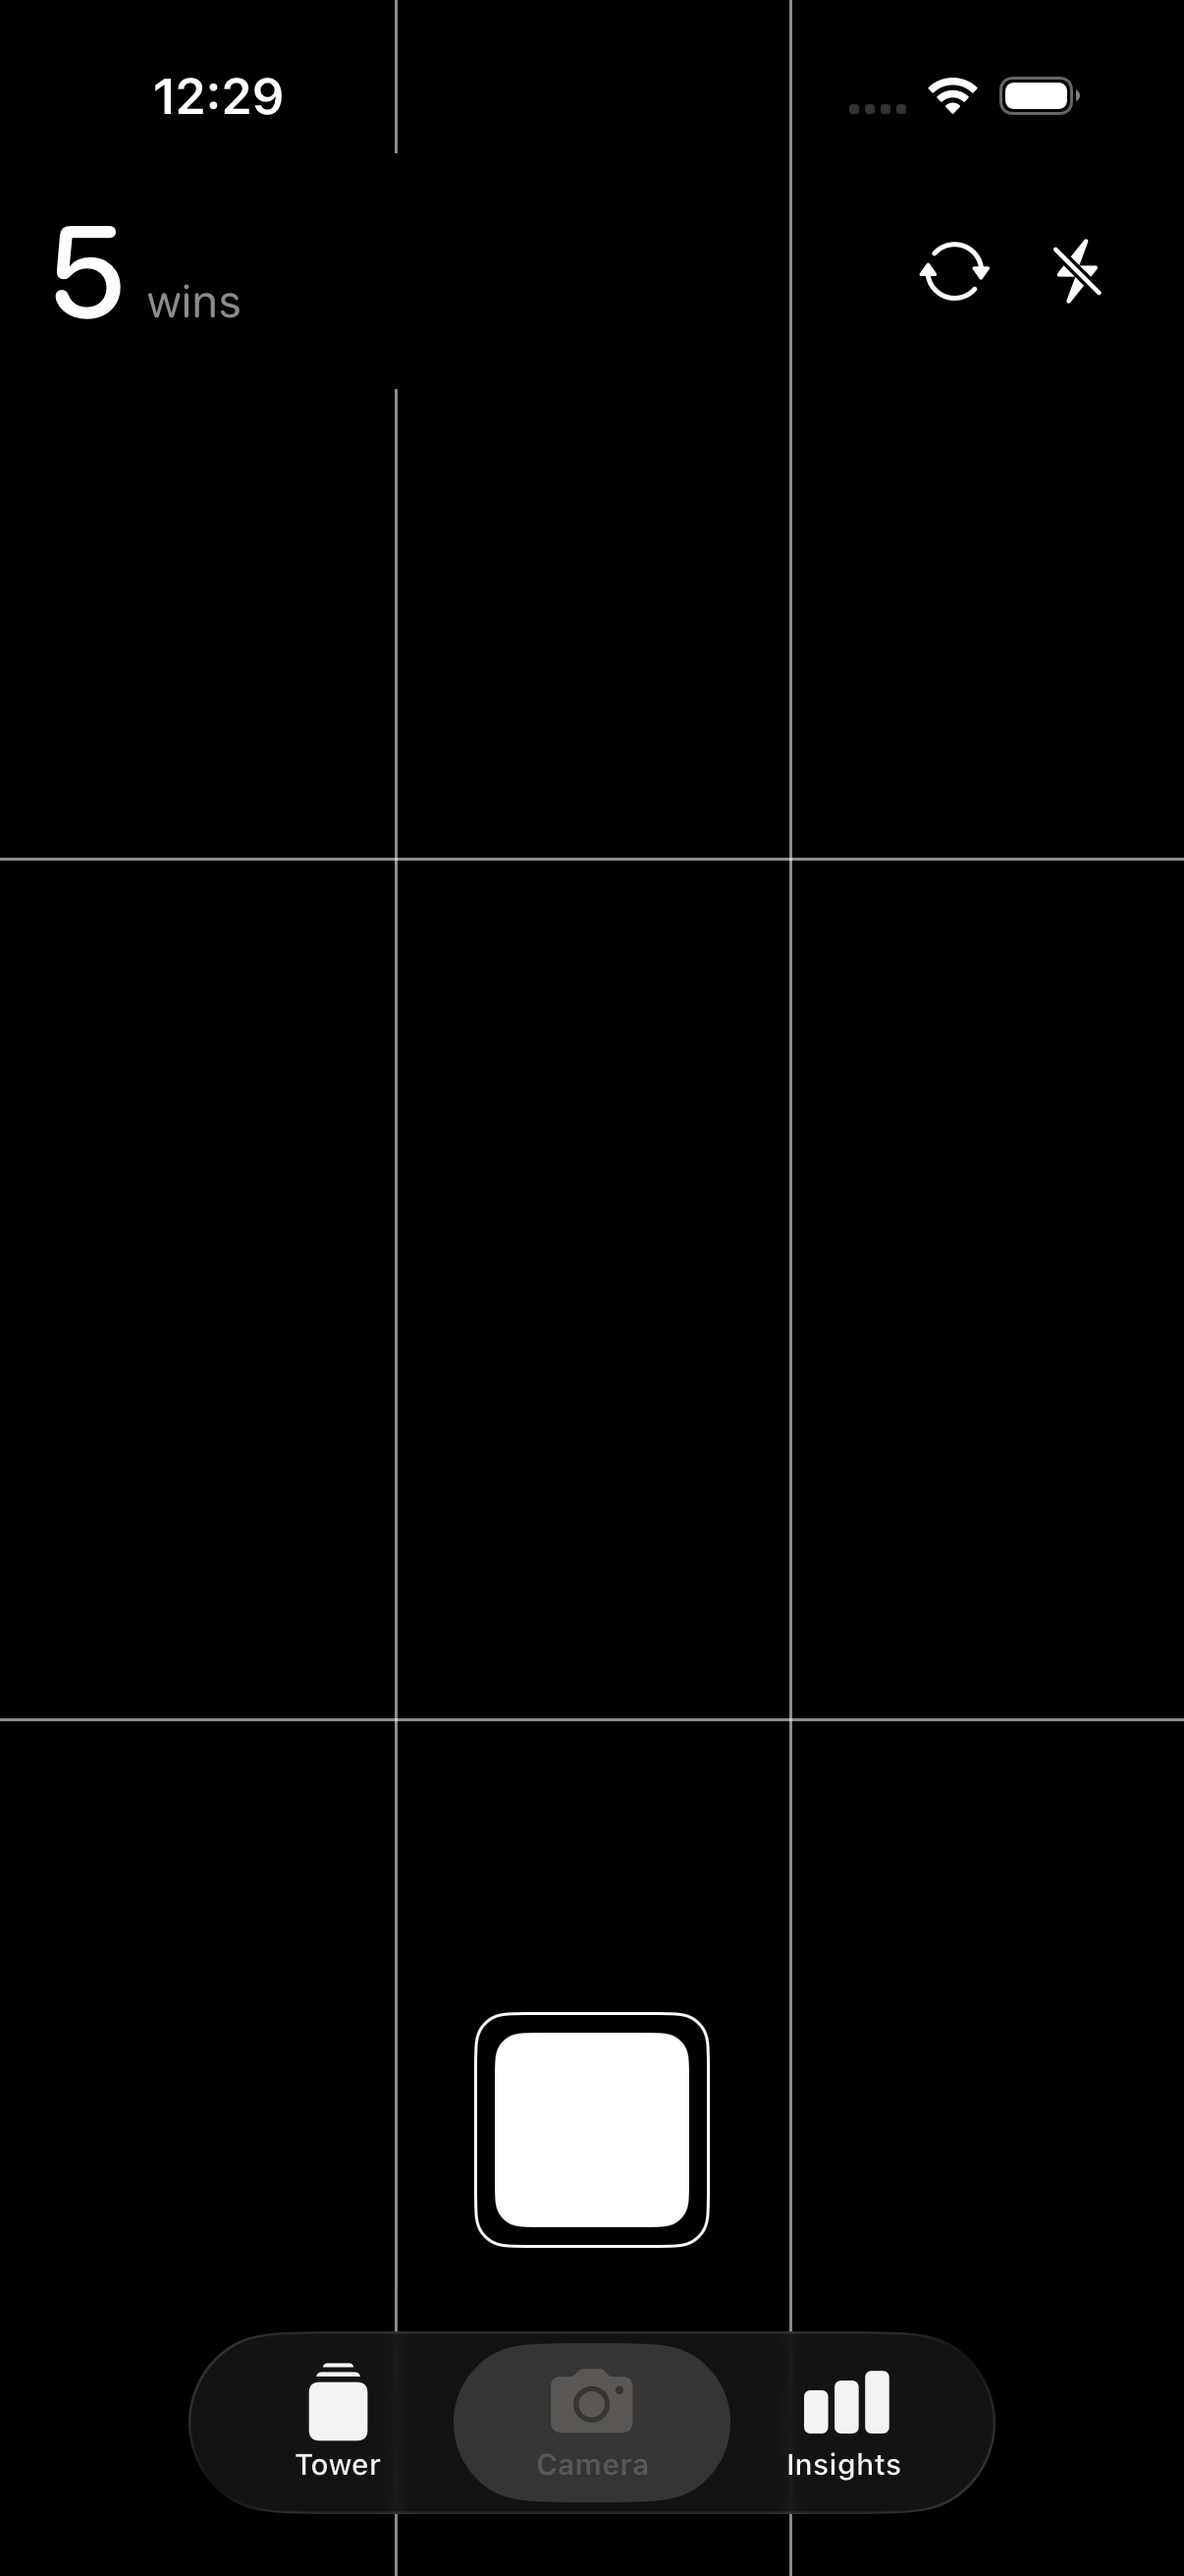
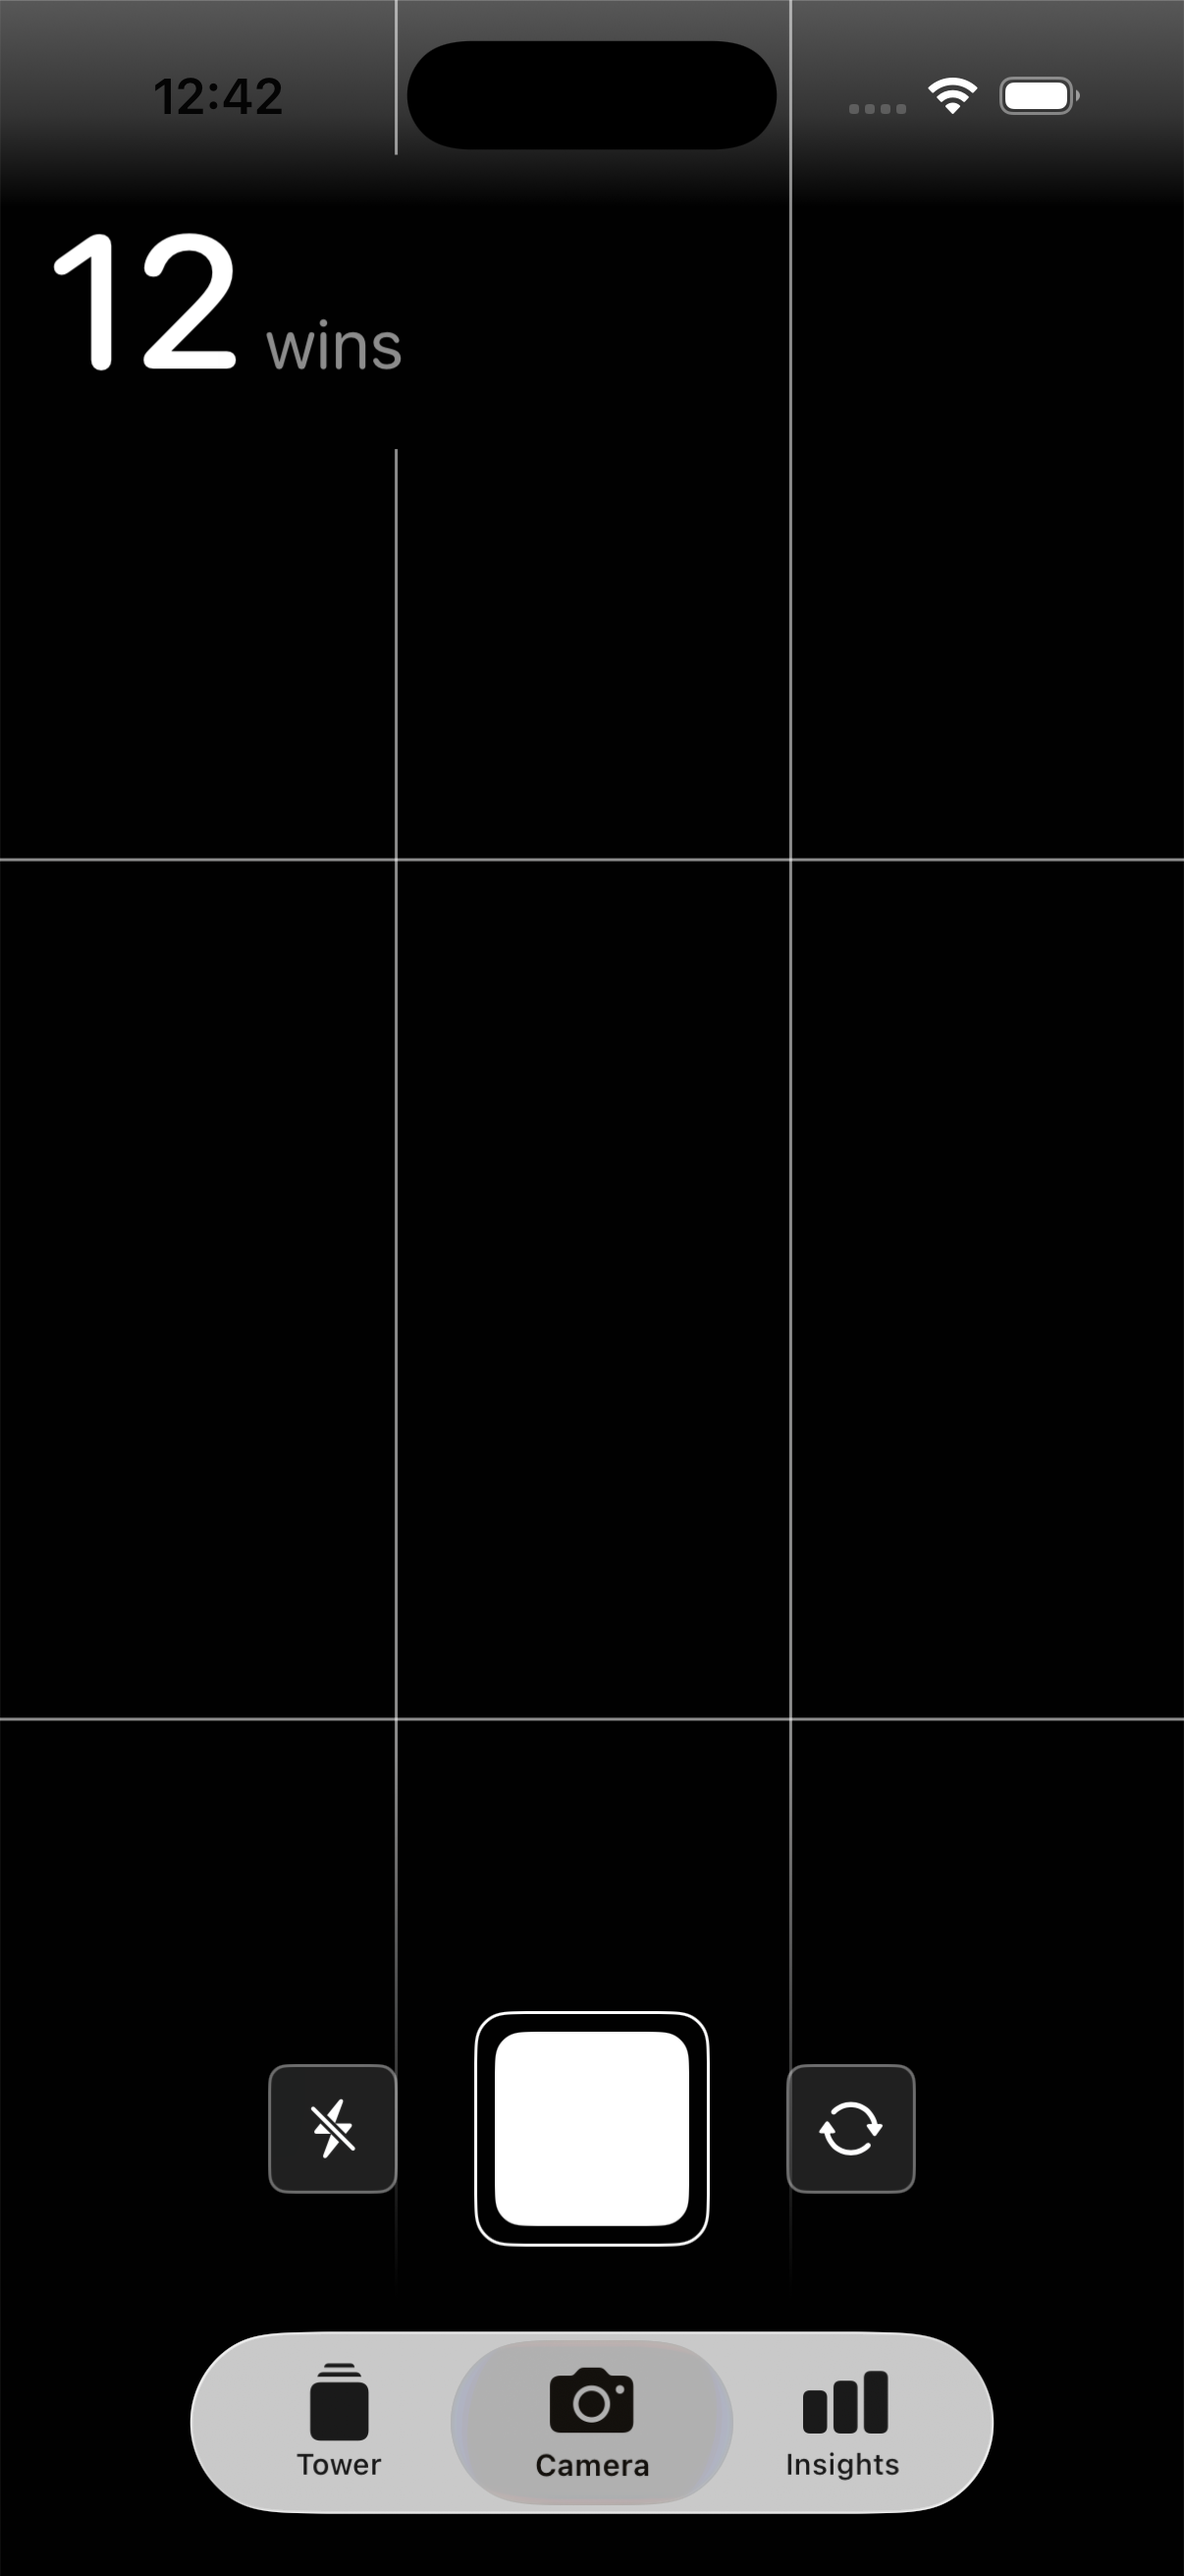
Make the drag give you what it showed, and put the camera controls in reach
**The drag hiccup was real, and both directions had the same cause.**
`released()` recomputed the size from raw translation plus a momentum
projection — WITHOUT the hysteresis the ghost had been tracking with. So
the two could disagree:

  - Drag up to Deep and drift back a little: hysteresis holds the ghost
    on Deep at `up >= step - back`, but the release demanded
    `up >= step`. Showed large, dropped Regular.
  - Ghost on Regular, a small upward flick at release: projection made
    `up > lateral` and returned Deep. Showed medium, dropped large.

Momentum projection (apple-design.md §6) belongs on a control whose
position is continuous and whose release point is arbitrary. This one has
already SNAPPED — the size is decided, drawn, and confirmed by a haptic
while the finger is still down. Overriding what somebody watched
themselves choose is worse than predicting where they were heading. What
you let go of is now what you saw.

**The dark camera icon was mine.** `preferredColorScheme(.dark)` on the
camera tab is window-scoped, so it took the tab bar dark and the selected
Camera item became a dark glyph on a dark pill. The tab bar is the one
piece of chrome on screen everywhere; the status bar is four glyphs.
Chrome that is always visible wins, so the window stays light throughout
and the camera reads its status bar back with a pale scrim of its own —
over a real image that lands as the top of the frame being slightly
brighter rather than as a panel.
[…]

diff --git a/Strata/Views/CameraView.swift b/Strata/Views/CameraView.swift
@@ -48,6 +48,8 @@ struct CameraView: View {
         /// a fourth grey nobody chose.
         static let colour = Color.white.opacity(0.55)
         static let width: CGFloat = 1
+        /// How much of the frame the bottom fade occupies.
+        static let fadeHeight: CGFloat = 0.20
     }
 
     /// The header the grid is built around.
@@ -61,7 +63,7 @@ struct CameraView: View {
         /// Matches the tower's `.padding(.top, 4)` exactly, so the number does
         /// not move between the two screens.
         static let topPadding: CGFloat = 4
-        static let height: CGFloat = 52
+        static let height: CGFloat = 72
         /// Air between the header and the cut ends of the line.
         static let breathing: CGFloat = 14
     }
@@ -69,6 +71,9 @@ struct CameraView: View {
     private let cornerRadius: CGFloat = 20
     /// Distance from the right edge to the centre of the control column.
     private let controlInset: CGFloat = 40
+    /// The two flanking controls. Smaller than the shutter, because they are
+    /// settings and it is the action.
+    private let controlBlock: CGFloat = 44
     private let shutterOuter: CGFloat = 80
     private let shutterInner: CGFloat = 66
     /// Where the design puts the shutter's centre: 131pt up from the bottom of
@@ -112,6 +117,9 @@ struct CameraView: View {
                 .allowsHitTesting(false)
 
                 controls(w: w, h: h, bottomInset: geo.safeAreaInsets.bottom)
+
+                statusScrim(topInset: geo.safeAreaInsets.top)
+                    .allowsHitTesting(false)
 
                 header()
 
@@ -176,6 +184,47 @@ struct CameraView: View {
             }
         }
         .frame(width: w, height: h, alignment: .topLeading)
+        // The grid dissolves before it reaches the tab bar.
+        //
+        // Ruled lines running hard into a floating bar is the one place this
+        // screen looked pasted together — two systems meeting at an edge
+        // neither of them drew. Fading them out over the last stretch is the
+        // same move the tower's water makes at the bottom of the blocks: the
+        // page stops rather than being cut off.
+        .mask(
+            LinearGradient(
+                stops: [
+                    .init(color: .black, location: 0),
+                    .init(color: .black, location: 1 - Guide.fadeHeight * 1.6),
+                    .init(color: .clear, location: 1 - Guide.fadeHeight * 0.55)
+                ],
+                startPoint: .top,
+                endPoint: .bottom
+            )
+        )
+    }
+
+    /// Lifts the status bar off the viewfinder.
+    ///
+    /// The app is light, so the status bar draws in dark text — which is
+    /// invisible over a dark scene. Overriding the window's colour scheme
+    /// would fix it and take the tab bar dark with it, which costs more than
+    /// it buys. A pale wash across the top few points instead gives those four
+    /// glyphs something to sit on, and over a real image it reads as the sky
+    /// being slightly brighter than it is rather than as a panel.
+    private func statusScrim(topInset: CGFloat) -> some View {
+        LinearGradient(
+            stops: [
+                .init(color: .white.opacity(0.22), location: 0),
+                .init(color: .white.opacity(0.11), location: 0.6),
+                .init(color: .clear, location: 1)
+            ],
+            startPoint: .top,
+            endPoint: .bottom
+        )
+        .frame(height: topInset + 8)
+        .frame(maxWidth: .infinity, maxHeight: .infinity, alignment: .top)
+        .ignoresSafeArea()
     }
 
     /// The count, the flip and the flash — one line, in the gap.
@@ -197,7 +246,7 @@ struct CameraView: View {
                         .foregroundStyle(.white)
                         .contentTransition(.numericText())
                     Text(winCount == 1 ? "win" : "wins")
-                        .font(Typography.bodyMedium)
+                        .font(.system(size: GridConstants.tallyWord, weight: .regular, design: .rounded))
                         .foregroundStyle(.white.opacity(0.55))
                 }
                 // Legible over whatever the lens is pointing at.
@@ -206,18 +255,6 @@ struct CameraView: View {
             }
 
             Spacer(minLength: 0)
-
-            HStack(spacing: 2) {
-                glyphButton("arrow.triangle.2.circlepath") {
-                    withAnimation(GridConstants.motionSmooth) { camera.flip() }
-                }
-                .accessibilityLabel("Switch camera")
-
-                glyphButton(camera.isFlashOn ? "bolt.fill" : "bolt.slash.fill") {
-                    camera.isFlashOn.toggle()
-                }
-                .accessibilityLabel(camera.isFlashOn ? "Flash on" : "Flash off")
-            }
         }
         .frame(height: Header.height)
         .padding(.horizontal, GridConstants.horizontalPadding)
@@ -237,9 +274,28 @@ struct CameraView: View {
         // up from the safe area keeps a deliberate gap under the button
         // instead of letting the two collide or drift apart.
         let shutterCentre = h - bottomInset - shutterOuter / 2 - 18
+        // Where a thumb already is. The two settings you actually change while
+        // shooting were at the top right corner, which on a phone this size is
+        // a reach with the other hand — so in practice you either put the
+        // phone down or you do not use them. Flanking the shutter puts them
+        // inside the arc the thumb sweeps to reach the button it is already
+        // going for.
+        let flankOffset = shutterOuter / 2 + 26 + controlBlock / 2
         return ZStack(alignment: .topLeading) {
+            blockButton(camera.isFlashOn ? "bolt.fill" : "bolt.slash.fill") {
+                camera.isFlashOn.toggle()
+            }
+            .position(x: w / 2 - flankOffset, y: shutterCentre)
+            .accessibilityLabel(camera.isFlashOn ? "Flash on" : "Flash off")
+
             shutter
                 .position(x: w / 2, y: shutterCentre)
+
+            blockButton("arrow.triangle.2.circlepath") {
+                withAnimation(GridConstants.motionSmooth) { camera.flip() }
+            }
+            .position(x: w / 2 + flankOffset, y: shutterCentre)
+            .accessibilityLabel("Switch camera")
 
             if let onClose {
                 Button {
@@ -253,11 +309,34 @@ struct CameraView: View {
                         .contentShape(Rectangle())
                 }
                 .buttonStyle(.plain)
-                .position(x: w / 2, y: shutterCentre + shutterOuter / 2 + 34)
+                .position(x: GridConstants.horizontalPadding + 20, y: shutterCentre)
                 .accessibilityLabel("Close camera")
             }
         }
         .frame(width: w, height: h, alignment: .topLeading)
+    }
+
+    /// A small block, so the two controls belong to the shutter rather than
+    /// floating beside it. Same corner ratio as every block in the app, so all
+    /// three objects on this row are the same shape at three sizes.
+    private func blockButton(_ symbol: String, action: @escaping () -> Void) -> some View {
+        Button {
+            HapticsEngine.tick()
+            action()
+        } label: {
+            ZStack {
+                RoundedRectangle(cornerRadius: controlBlock * 0.147, style: .continuous)
+                    .fill(.white.opacity(0.12))
+                RoundedRectangle(cornerRadius: controlBlock * 0.147, style: .continuous)
+                    .strokeBorder(.white.opacity(0.35), lineWidth: 1)
+                Image(systemName: symbol)
+                    .font(.system(size: 18, weight: .medium))
+                    .foregroundStyle(.white)
+            }
+            .frame(width: controlBlock, height: controlBlock)
+            .contentShape(RoundedRectangle(cornerRadius: controlBlock * 0.147, style: .continuous))
+        }
+        .buttonStyle(.plain)
     }
 
     private func glyphButton(_ symbol: String, action: @escaping () -> Void) -> some View {

diff --git a/Strata/Views/MainAppView.swift b/Strata/Views/MainAppView.swift
@@ -382,7 +382,6 @@ struct MainAppView: View {
         TabView(selection: $selectedTab) {
             Tab("Tower", systemImage: "square.stack.fill", value: StrataTab.tower) {
                 towerTabRoot
-                    .preferredColorScheme(.light)
             }
             // No badge. It counted blocks queued to drop, which is an
             // implementation detail measured in milliseconds — it flashed a
@@ -403,19 +402,19 @@ struct MainAppView: View {
             // you can name it after. Shooting from here logs the win straight
             // away with the photo already on it.
             Tab("Camera", systemImage: "camera.fill", value: StrataTab.camera) {
+                // No `.preferredColorScheme(.dark)`.
+                //
+                // It is SwiftUI's only supported route to a light status bar,
+                // and it is window-scoped by design — so it also took the tab
+                // bar dark, and the selected Camera item went dark glyph on a
+                // dark pill. The tab bar is the one piece of chrome that is on
+                // screen everywhere; the status bar is four glyphs. Chrome
+                // that is always visible wins, and the app stays light
+                // throughout as it was decided to.
+                //
+                // The camera reads the status bar back with its own scrim
+                // instead. See `CameraView.statusScrim`.
                 cameraTab
-                    // The status bar has to be light over a black viewfinder,
-                    // and `preferredColorScheme` is SwiftUI's only supported
-                    // route to that — it is window-scoped by design.
-                    //
-                    // The bug was never that this was here; it was that
-                    // nothing put the window BACK. Leaving the camera left the
-                    // window dark, so the tower drew white text on its light
-                    // ground and the tab bar stayed dark. Every other tab now
-                    // asserts `.light`, so the window is whatever the visible
-                    // tab says it is and returning is not something that can
-                    // fail to happen.
-                    .preferredColorScheme(.dark)
             }
             Tab("Insights", systemImage: "chart.bar", value: StrataTab.insights) {
                 NavigationStack {
@@ -439,7 +438,6 @@ struct MainAppView: View {
                         )
                     }
                 }
-                .preferredColorScheme(.light)
             }
         }
         .modifier(TabBarCollapseModifier())
@@ -537,7 +535,7 @@ struct MainAppView: View {
                 .foregroundStyle(.primary.opacity(0.85))
                 .contentTransition(.numericText())
             Text(towerVM.placedBlocks.count == 1 ? "win" : "wins")
-                .font(Typography.bodyMedium)
+                .font(.system(size: GridConstants.tallyWord, weight: .regular, design: .rounded))
                 .foregroundStyle(.primary.opacity(0.35))
             Spacer(minLength: 0)
             TowerRangePicker(selection: Binding(

diff --git a/Strata/Views/NextSlotButton.swift b/Strata/Views/NextSlotButton.swift
@@ -260,28 +260,26 @@ struct NextSlotButton: View {
         return value.velocity.width * ux + value.velocity.height * uy
     }
 
-    /// The size a flick is HEADING for, not the one it happened to stop on.
+    /// What you let go of is what you saw.
     ///
-    /// docs/apple-design.md §6: project where the gesture is going and snap to
-    /// the stop nearest that, rather than to the nearest stop from the release
-    /// point. It is the difference between a flick that throws the slot open
-    /// and one that drops it wherever your finger ran out of room — and it is
-    /// what lets a quick outward flick mean Deep without dragging the full
-    /// distance.
+    /// This used to recompute the size from the raw translation plus a
+    /// momentum projection, which is apple-design.md §6 — and it was wrong
+    /// here, because it recomputed WITHOUT the hysteresis the ghost had been
+    /// tracking with. The two could disagree, in both directions:
     ///
-    /// No hysteresis here: that exists to stop a resting finger flickering
-    /// between two sizes, and this is a single decision taken once.
+    ///  - Drag up to Deep and drift back a little: hysteresis holds the ghost
+    ///    on Deep at `up >= step - back`, but the release demanded
+    ///    `up >= step`. Showed large, dropped Regular.
+    ///  - Ghost on Regular, a small upward flick at release: projection made
+    ///    `up > lateral` and returned Deep. Showed medium, dropped large.
     ///
-    /// Projected per axis, so a flick upward is heading for the tall block and
-    /// a flick sideways for the wide one — the same rule as during the drag.
+    /// Momentum projection belongs on a control whose position is continuous
+    /// and whose release point is arbitrary. This one has already SNAPPED —
+    /// the size is decided, shown, and confirmed by a haptic while your finger
+    /// is still down. Overriding what somebody watched themselves choose is
+    /// worse than not predicting where they were heading.
     private func released(_ value: DragGesture.Value) -> BlockSize {
-        let lateral = abs(value.translation.width)
-            + GridConstants.project(velocity: abs(value.velocity.width))
-        let up = max(-value.translation.height, 0)
-            + GridConstants.project(velocity: max(-value.velocity.height, 0))
-        let step = GridConstants.slotStep
-        if up > lateral && up >= step { return .hard }
-        return lateral >= step ? .medium : .small
+        lastSize
     }
 
     /// Resistance past the last stop on an axis.

diff --git a/Strata/Models/GridConstants.swift b/Strata/Models/GridConstants.swift
@@ -188,7 +188,10 @@ enum GridConstants {
     ///
     /// One constant, because the tower and the camera show the same count and
     /// it must not change size between them.
-    static let tallyNumeral: CGFloat = 44
+    static let tallyNumeral: CGFloat = 64
+    /// The word beside it. Sized with the numeral rather than left at a body
+    /// size, or the pair stops reading as one object as the numeral grows.
+    static let tallyWord: CGFloat = 24
 
     // MARK: - The tower's dance
 
